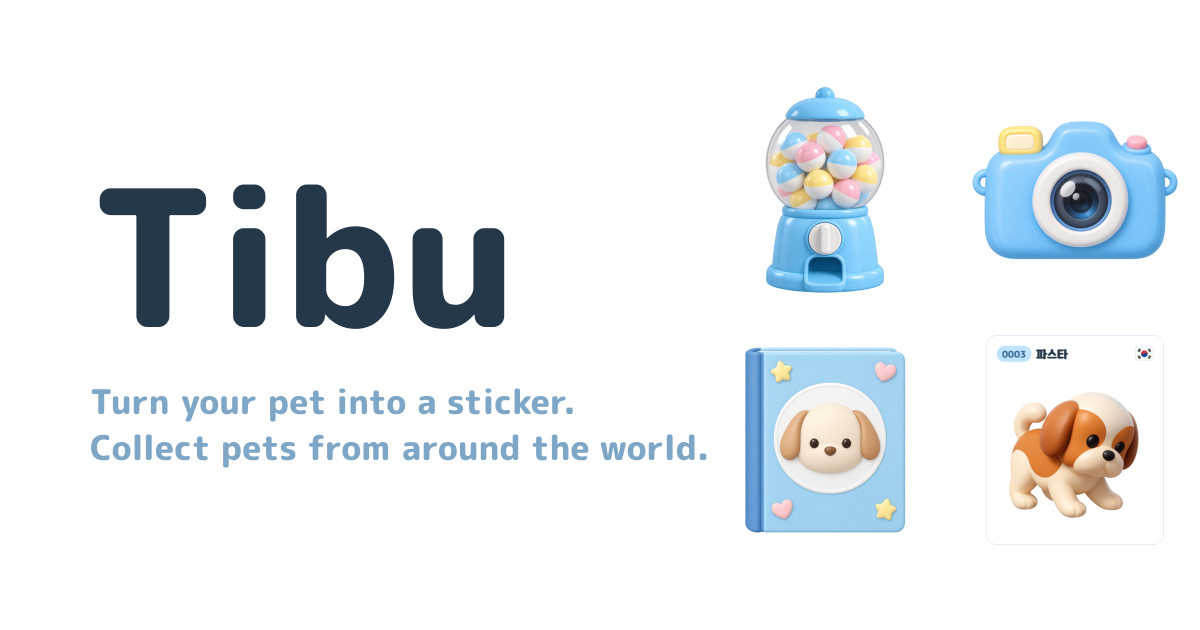
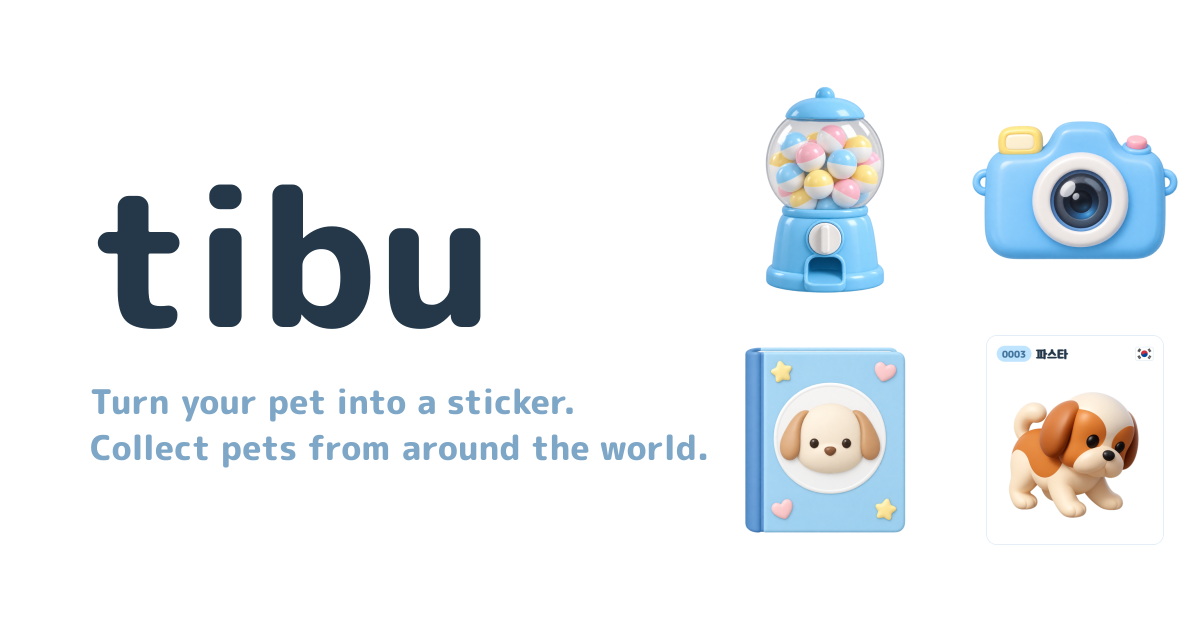
Brand name is lowercase tibu everywhere

Changed region(s): [[0.0617, 0.2714, 0.4317, 0.5429]]

diff --git a/src/app/opengraph-image.tsx b/src/app/opengraph-image.tsx
@@ -2,7 +2,7 @@ import { readFile } from "node:fs/promises";
 import path from "node:path";
 import { ImageResponse } from "next/og";
 
-export const alt = "Tibu: turn your pet into a sticker and collect pets from around the world";
+export const alt = "tibu: turn your pet into a sticker and collect pets from around the world";
 export const size = { width: 1200, height: 630 };
 export const contentType = "image/png";
 
@@ -55,7 +55,7 @@ export default async function OpenGraphImage() {
         }}
       >
         <div style={{ display: "flex", flexDirection: "column" }}>
-          <div style={{ fontSize: 190, color: "#24384a", lineHeight: 1 }}>Tibu</div>
+          <div style={{ fontSize: 190, color: "#24384a", lineHeight: 1 }}>tibu</div>
           <div style={{ marginTop: 28, fontSize: 34, color: "#7ea6c6", lineHeight: 1.35 }}>
             Turn your pet into a sticker.
           </div>

diff --git a/src/app/layout.tsx b/src/app/layout.tsx
@@ -19,10 +19,10 @@ const DESCRIPTION = "Turn your pet into a sticker and collect pets from around t
 
 export const metadata: Metadata = {
   metadataBase: new URL(SITE_URL),
-  title: "Tibu",
+  title: "tibu",
   description: DESCRIPTION,
-  openGraph: { title: "Tibu", description: DESCRIPTION, siteName: "Tibu", type: "website" },
-  twitter: { card: "summary_large_image", title: "Tibu", description: DESCRIPTION },
+  openGraph: { title: "tibu", description: DESCRIPTION, siteName: "tibu", type: "website" },
+  twitter: { card: "summary_large_image", title: "tibu", description: DESCRIPTION },
   other: { google: "notranslate" },
 };
 

diff --git a/src/app/page.tsx b/src/app/page.tsx
@@ -183,7 +183,7 @@ export default function HomePage() {
             <h2>Delete your account?</h2>
             <p className="note">
               Your album, draws and remaining chances are erased and cannot be recovered. Stickers
-              you made stay in Tibu for others to collect, no longer linked to you.
+              you made stay in tibu for others to collect, no longer linked to you.
             </p>
             <div className="actions" style={{ marginTop: 0 }}>
               <button className="btn btn-danger" disabled={deleting} onClick={deleteAccount}>

diff --git a/src/app/login/page.tsx b/src/app/login/page.tsx
@@ -38,7 +38,7 @@ export default function LoginPage() {
 
   return (
     <main className="login">
-      <h1>Tibu</h1>
+      <h1>tibu</h1>
       <GachaArt />
       <div className="stack" style={{ width: "100%" }}>
         <button className="btn btn-google" disabled={!mode} onClick={signIn}>

diff --git a/src/lib/legal.ts b/src/lib/legal.ts
@@ -7,7 +7,7 @@ export const SUPPORT_COUNTRIES: string[] = ["KR"];
 
 // Details shown on the Terms and Privacy pages.
 export const LEGAL = {
-  appName: "Tibu",
+  appName: "tibu",
   contactEmail: "minunsyc@gmail.com",
   // the day the app goes public
   effectiveDate: "October 7, 2026",

diff --git a/README.md b/README.md
@@ -1,10 +1,10 @@
-# Tibu
+# tibu
 
 Turn a photo of your pet into a collectible sticker, then draw stickers of other pets from around the world.
 
 **Try it: https://tibu-sand.vercel.app**
 
-[![Tibu: the name on the left; a gacha machine, a camera, an album and a pet sticker on the right](docs/preview.png)](https://tibu-sand.vercel.app)
+[![tibu: the name on the left; a gacha machine, a camera, an album and a pet sticker on the right](docs/preview.png)](https://tibu-sand.vercel.app)
 
 ## How it works
 
